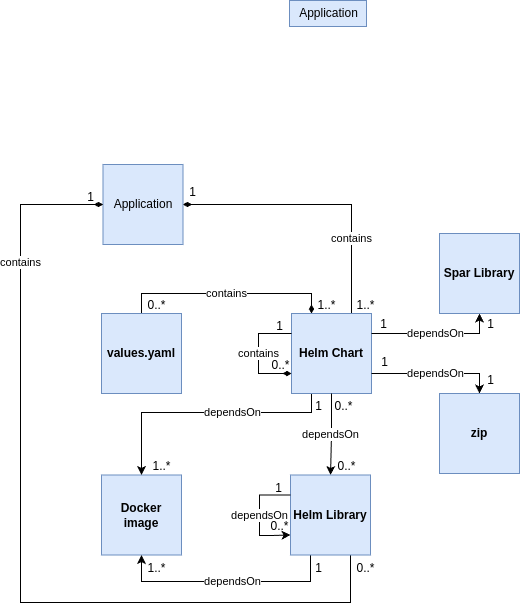
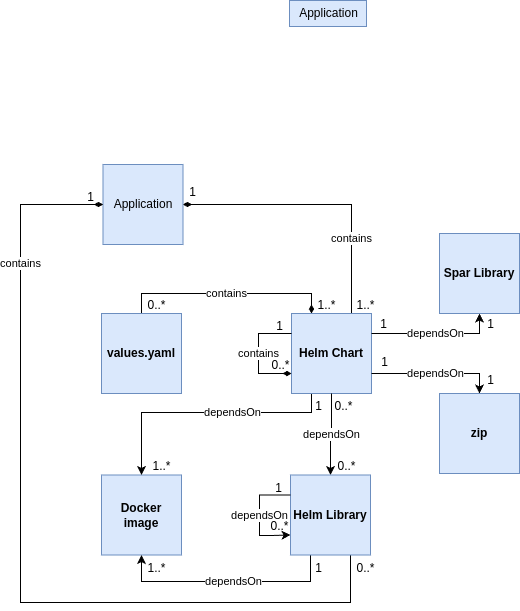
docs: update app manifest

diff --git a/docs/analysis/application-manifest-be-or-no-to-be.md b/docs/analysis/application-manifest-be-or-no-to-be.md
@@ -1,0 +1,81 @@
+# Application Manifest. Be or not to be?
+
+## Problem Statement
+
+1. Transfer of Build-Time Artifact Parameters to Helm Charts
+
+    For deployment of applications via Helm, it is necessary to pass dynamic artifact (Docker image, ZIP/JAR Maven artifact) parameters (names, versions, groups, digests, ...) into the Helm values
+
+    These parameters are determined only at build time, while the build and deployment processes may be separated in time, which requires a mechanism for transferring and maintaining consistency between artifacts and the Helm charts.
+
+2. Dependency of Helm Values Structure on Helm Chart Structure
+
+    The structure of Helm values depends on the structure of the application's Helm charts (the composition of Helm charts and their relationships). To generate service parameters (including performance parameters), the configuration management must have information about the structure of the application's Helm charts.
+
+## Proposed approaches
+
+1. Generation of Helm values at the application build stage
+
+    During the application build, a Helm values file containing artifact parameters is generated. This file is then used during the Helm chart build, becoming part of the chart. It is delivered as part of the chart and used during the rendering of the Helm chart.
+
+    ![no-application-manifest.drawio.png](/docs/images/no-application-manifest.drawio.png)
+
+    Pros:
+      - No need to handle artifact parameters in CM
+      - No additional entity introduction
+
+    Cons:
+      - If artifact is rebuilt, Helm chart needs to be updated
+      - Does not solve the problem of dependency of deployment parameters on Helm chart structure: CM does not provide the ability to manage service-level parameters
+
+2. Manual update of Helm values
+
+    Manually updating Helm values at the build stage.
+
+    Pros:
+      - Does not require additional automation or tooling
+      - No additional entity introduction
+
+    Cons:
+      - Error-prone and time-consuming
+      - Does not solve problem of dependency of deployment parameters on Helm chart structure: CM does not provide the ability to manage service-level parameters
+
+3. Generation of Application Manifest
+
+    Using the Application Manifest as a single source of truth for application components (including Helm charts, their structure, dynamic artifact's parameters).
+    The Application Manifest is created at the application build stage, published to a repository, and used to generate Helm values. The configuration management generates Helm values as part of the effective set.
+
+    ![application-manifest.drawio.png](/docs/images/application-manifest.drawio.png)
+
+    Pros:
+      - Solves both problems:
+        - Transfer of Build-Time Artifact Parameters to Helm Charts
+        - Dependency of Deployment Parameters on Helm Chart Structure
+      - Provides ability to extend set of transmitted attributes to support additional scenarios. For example, passing Helm value schemas or baseline performance parameters.
+
+    Cons:
+      - Introduction of Application Manifest entity that needs to be maintained across different tools (Argo, Pipelines, EnvGene, ADG, etc.) and scenarios
+
+<!-- 4. Kustomize / Helmfile
+
+    Not applicable to the problem being solved, as these tools are intended for configuration modification mechanisms and aggregation from different sources, not for transferring configuration.
+
+1. ArgoCD Image Updater
+
+    Using tools such as ArgoCD Image Updater to automatically update Docker image versions in the Helm values file based on new image tags detected in the container registry.
+
+    Cons:
+      - Limited to Docker images; does not support other artifact types such as Maven artifacts
+      - Does not address the dependency of deployment parameters on the Helm chart structure
+
+2. Renovate Bot / Dependabot
+
+  Is an implementation of the "Generation of Helm values at the application build stage" approach -->
+
+### "Pros and Cons" Table
+
+| Approach                              | Pros                                                                                                 | Cons                                                                                                   |
+|---------------------------------------|------------------------------------------------------------------------------------------------------|--------------------------------------------------------------------------------------------------------|
+| Helm values generation at build stage | 1. No need to handle artifact parameters in CM<br>2. No additional entity introduction | 1. If artifact is rebuilt, Helm chart needs to be updated<br>2. CM does not provide the ability to manage service-level parameters |
+| Manual update of Helm values          | 1. Does not require additional automation or tooling<br>2. No additional entity introduction | 1. Error-prone and time-consuming<br>2. CM does not provide the ability to manage service-level parameters |
+| Application Manifest generation       | 1. Solves both problems <br>2. Provides ability to extend set of transmitted attributes to support additional scenarios. For example, passing Helm value schemas or baseline performance parameters. | 1. Introduction of Application Manifest entity that needs to be maintained across different tools (Argo, Pipelines, EnvGene, ADG, etc.) and scenarios |